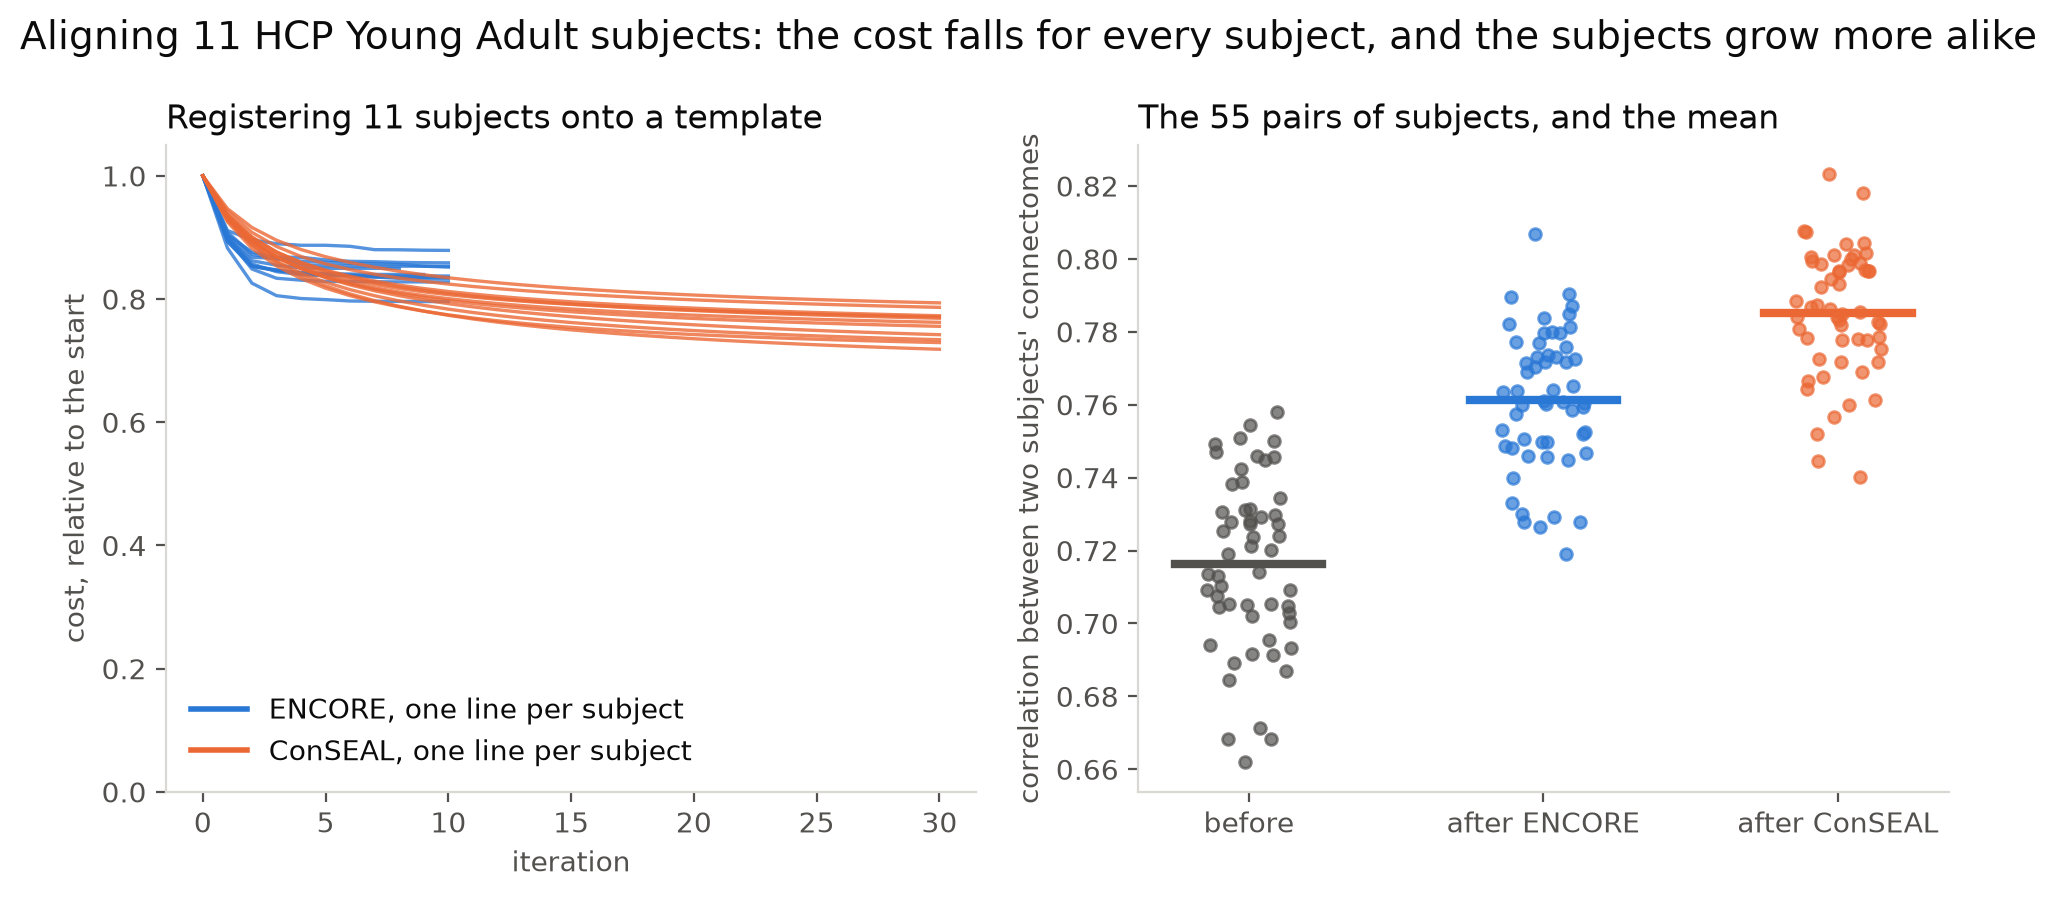
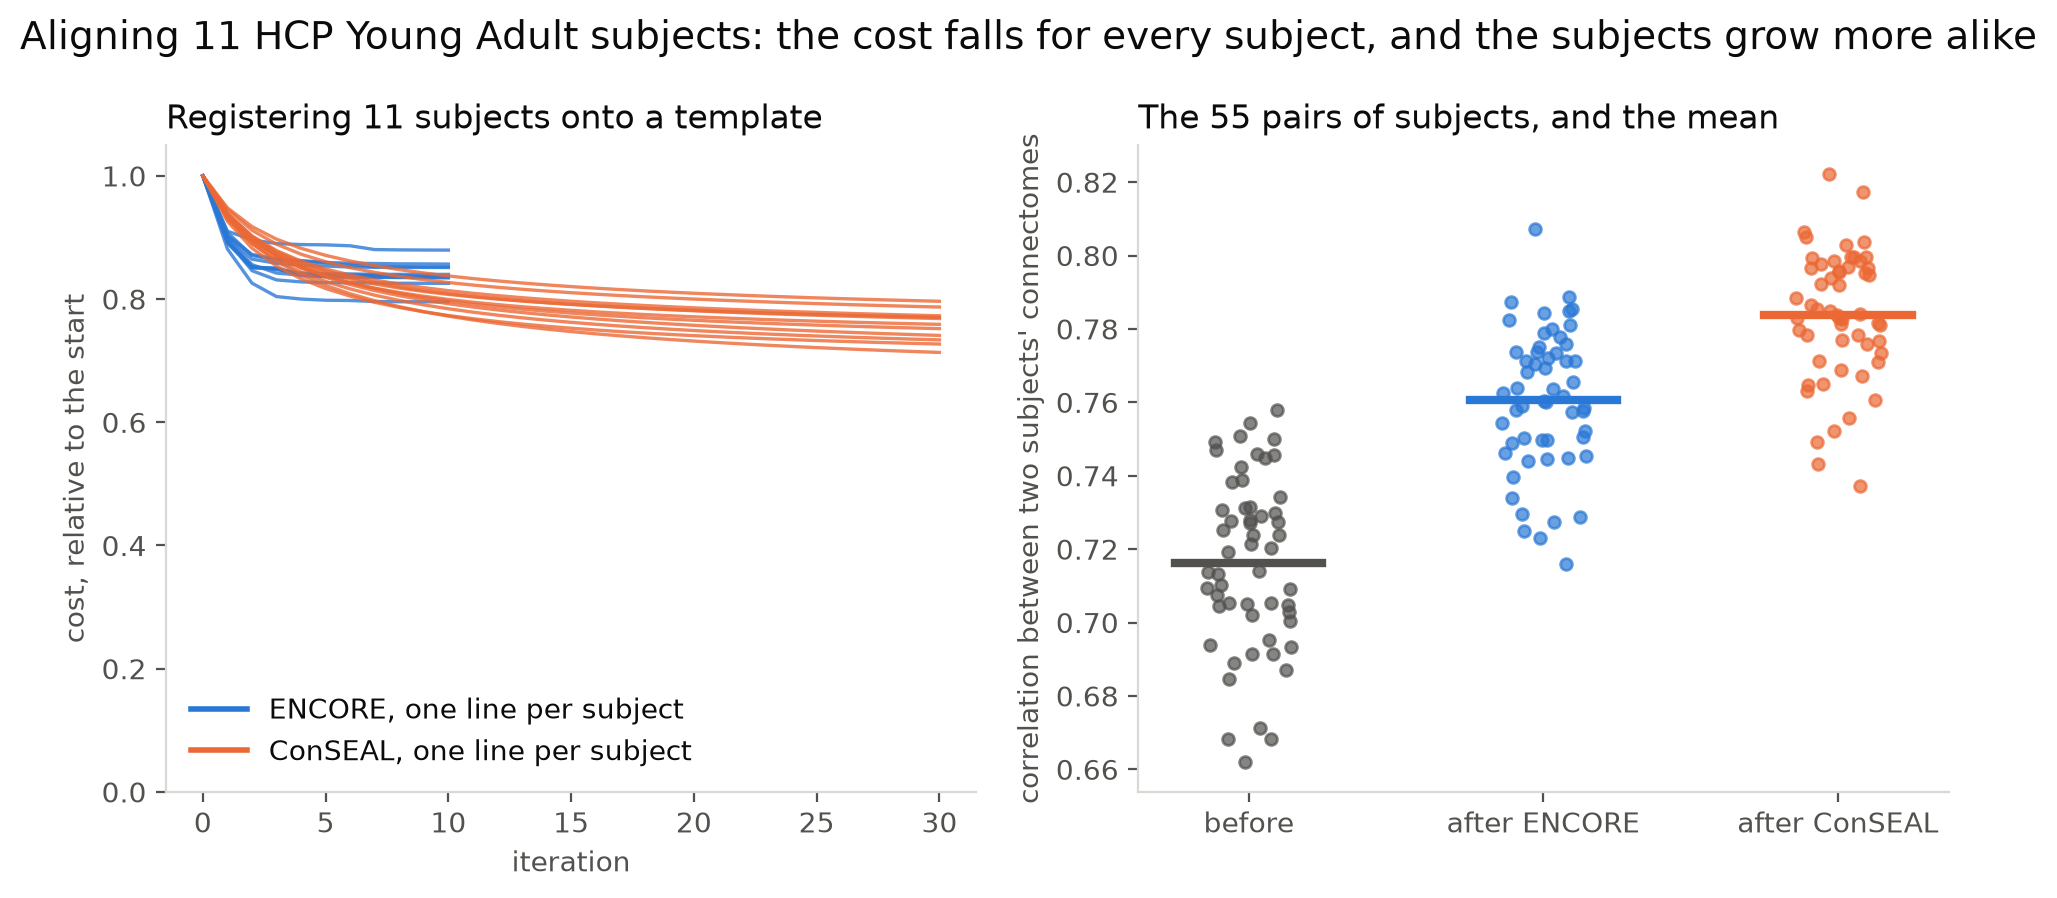
Cohort figure: register ConSEAL onto its own Karcher median, now that the median is right
The cohort-alignment figure registered ConSEAL onto the mean of the
square-root densities because its Karcher median stopped on sub-212116,
which 64722e6 traced to a rounding defect shared with the reference and
corrected. Both methods now register onto their own median, as the package
does by default, and the run logs where ConSEAL's lies: 16.6 to 20.2 degrees
from the eleven subjects, the numbers tests/reference/template_probe.py
gave.

Regenerated on the eleven released young adults with the corrected code:
the subjects' mean pairwise correlation rises from 0.716 to 0.761 after ten
ENCORE iterations, unchanged, and to 0.784 after thirty ConSEAL iterations
(0.785 onto the mean, before the corrections); the cost falls for every
subject. ENCORE took nine minutes and ConSEAL 1 h 55 on eight cores.
RESULTS.md, the figure index and PORTING.md item 9 carry the new numbers.

diff --git a/scripts/hcp_figures.py b/scripts/hcp_figures.py
@@ -631,34 +631,30 @@ def cohort_figures(out: Path, subjects, conseal: bool = True) -> None:
     after_conseal = None
     conseal_costs = None
     if conseal:
-        # ConSEAL's Karcher median stopped on sub-212116 (0.001 degrees from it), a
-        # rounding defect shared with the reference and since corrected (PORTING.md
-        # item 9); register onto the mean of the square-root densities instead so
-        # that every subject moves, as with ENCORE's template.
-        from sbci.conseal import (
-            DEFAULT_KERNEL_DEGREE,
-            DEFAULT_SIGMA,
-            EndpointConnectome,
-            HeatKernelBuilder,
-            default_grids,
-        )
+        # ConSEAL onto its own Karcher median, as ENCORE is. Until October 2026 the
+        # median stopped on the subject it started from, through rounding rather
+        # than geometry (PORTING.md item 9), and this figure registered onto the
+        # mean of the square-root densities instead.
+        from sbci.conseal import EndpointConnectome, default_grids
 
         lh, rh = default_grids()
-        kernel = HeatKernelBuilder(lh, rh, DEFAULT_KERNEL_DEGREE).compute(
-            DEFAULT_SIGMA, derivative=True
-        )[0]
         carriers = [EndpointConnectome.from_endpoints(s.endpoints, lh, rh) for s in subjects]
-        mean_template = sum(c.q_transform(kernel) for c in carriers) / len(carriers)
-        mean_template /= np.sqrt((mean_template**2).sum())
         t = time.time()
         registration = sbci.endpoints_align(
             carriers,
-            template=mean_template,
             max_iterations=30,
             threshold=1e-7,
             delta=0.1,
             step_clamp=float("inf"),
             viscosity=0.0,
+        )
+        # The plain-sum cost of two unit square-root densities is 2 - 2 cos(angle).
+        start = np.array([trace[0] for trace in registration.costs])
+        angles = np.degrees(np.arccos(np.clip(1 - start / 2, -1.0, 1.0)))
+        print(
+            f"  ConSEAL's median lies {angles.min():.2f} to {angles.max():.2f} degrees "
+            "from the subjects",
+            flush=True,
         )
         aligned = [
             resmoothed(subject, registration.aligned_endpoints(i)).data

diff --git a/docs/figures/README.md b/docs/figures/README.md
@@ -59,7 +59,7 @@ the shading shows where there is nothing to see.
 | `spherical_kernel.png` | the kernel `smooth(kernel="shk")` applies, at the released bandwidth and twice it, with its cutoffs |
 | `alignment_recovery.png` | sub-100307's streamline endpoints moved by a known smooth warp (degree 4, 1.7 degrees on average) and registered back onto the undeformed subject by ENCORE and by ConSEAL, both through the package's smoother: how far each endpoint still is from where it started, vertex by vertex on the surface and as a histogram (1.63 degrees as deformed; 0.20 after ENCORE, 0.11 after ConSEAL), and the cost per iteration |
 | `migration_power.png` | the same known warp applied to sub-100307's own FreeSurfer sulcal depth at fsaverage resolution (163,842 vertices), shown with what it changes in the map (r = 0.95 with the original once moved), and what is left once ENCORE's warp, carried from the grid with `migrate_warp`, puts it back (r = 0.996); below, ENCORE's warp on the grid, restated on fsaverage, and the known warp there, 0.32 degrees apart on average on the left hemisphere shown (0.33 over both) |
-| `cohort_alignment.png` | registering the eleven subjects with ENCORE (onto its Karcher median) and with ConSEAL (onto the mean square-root density, since its median stopped on one subject through a rounding defect since corrected, PORTING.md item 9), every density from the package's smoother: each subject's cost per iteration, and the correlation between each of the 55 pairs of subjects' connectomes before and after (mean 0.716, then 0.761 after ENCORE and 0.785 after ConSEAL; ENCORE's measured again after the corrections of October 2026, ConSEAL's from before them) |
+| `cohort_alignment.png` | registering the eleven subjects with ENCORE and with ConSEAL, each onto its own Karcher median, every density from the package's smoother: each subject's cost per iteration, and the correlation between each of the 55 pairs of subjects' connectomes before and after (mean 0.716, then 0.761 after ENCORE and 0.784 after ConSEAL) |
 | `cohort_trait_scores.png` | a rank-20 FPCA of the 943 young adults with a fluid-intelligence score: the two components most associated with it given sex, age band and streamline count, families as clusters, each subject's score against the number of PMAT24 items answered correctly, with the mean in each fifth of that range and its 95% interval (component 13, r = 0.11, adjusted p 0.064; component 7, r = 0.10, 0.083: neither survives the correction) |
 | `cohort_sex_effect.png` | the effect map over the 11 components of the same fit that track sex given the rest, families as clusters: the fitted difference in connectivity between women and men, relative to its largest value, at the occipital poles, where it is higher in men |
 | `cohort_coupling.png` | the mean of the coupling maps of the 903 young adults with four complete resting-state runs, coloured from its 2nd to 98th percentile (0.05 to 0.40): the eleven's map (r = 0.972), and two halves of the cohort split by family reproduce it at r = 0.998 |

diff --git a/docs/RESULTS.md b/docs/RESULTS.md
@@ -239,19 +239,16 @@ and ConSEAL keeps it with its default regularization or a mean template.
 **Aligning the eleven subjects.** Registered onto a template estimated from
 the cohort, with every density from the package's smoother, the subjects grow
 more alike: the mean correlation between two subjects' connectomes rises from
-0.716 to 0.761 after ten ENCORE iterations and to 0.785 after thirty ConSEAL
-iterations, and the cost falls for every subject. ENCORE registers onto its
-Karcher median. ConSEAL registers onto the mean of the square-root densities
-instead, because its median stopped on one subject: on these eleven it came
-within 0.001 degrees of sub-212116 and sat 24 to 27 degrees from the others,
-which would have registered everyone onto that subject's connectome. These
-notes first put that down to the subjects' geometry; it was a rounding defect
-the port shared with the reference, and the corrected median sits 0.4 degrees
-from the mean and 17 to 20 degrees from every subject (PORTING.md item 9).
-ENCORE's numbers were measured again after the corrections of October 2026
-and hold; ConSEAL's predate them. Eleven subjects with 734,039 to 988,788
-streamlines each take nine minutes with ENCORE and two hours with ConSEAL on
-eight cores.
+0.716 to 0.761 after ten ENCORE iterations and to 0.784 after thirty ConSEAL
+iterations, and the cost falls for every subject. Each method registers onto
+its own Karcher median; ConSEAL's sits 17 to 20 degrees from every subject
+and 0.4 from the mean of their square-root densities. Until October 2026 it
+stopped on sub-212116 instead, 0.001 degrees from it and 24 to 27 from the
+others, which these notes first put down to the subjects' geometry; it was a
+rounding defect the port shared with the reference (PORTING.md item 9), and
+this figure registered ConSEAL onto that mean instead, reaching 0.785. Eleven
+subjects with 734,039 to 988,788 streamlines each take nine minutes with
+ENCORE and two hours with ConSEAL on eight cores.
 
 ![Aligning the eleven subjects](figures/cohort_alignment.png)
 

diff --git a/PORTING.md b/PORTING.md
@@ -1786,10 +1786,11 @@ and set against the first review's recording on the same CPU type with
   synthetic cohorts of item 7): the reference's arithmetic stops on
   sub-212116, 0.001 degrees from it and 16.9 from the mean; the corrected
   median sits 0.43 degrees from the mean and 16.6 to 20.2 from every
-  subject. The cohort figure of docs/RESULTS.md registered ConSEAL onto the
-  mean of the square-root densities because of the collapse; its ENCORE half
-  was measured again with the corrected code and holds (mean pairwise
-  correlation 0.7163 to 0.7606).
+  subject. The cohort figure of docs/RESULTS.md, which registered ConSEAL
+  onto the mean of the square-root densities because of the collapse, now
+  registers it onto this median: the subjects' mean pairwise correlation
+  rises from 0.716 to 0.784 (0.785 onto the mean, before the corrections),
+  and ENCORE's half holds at 0.761.
 
 ## Status
 
